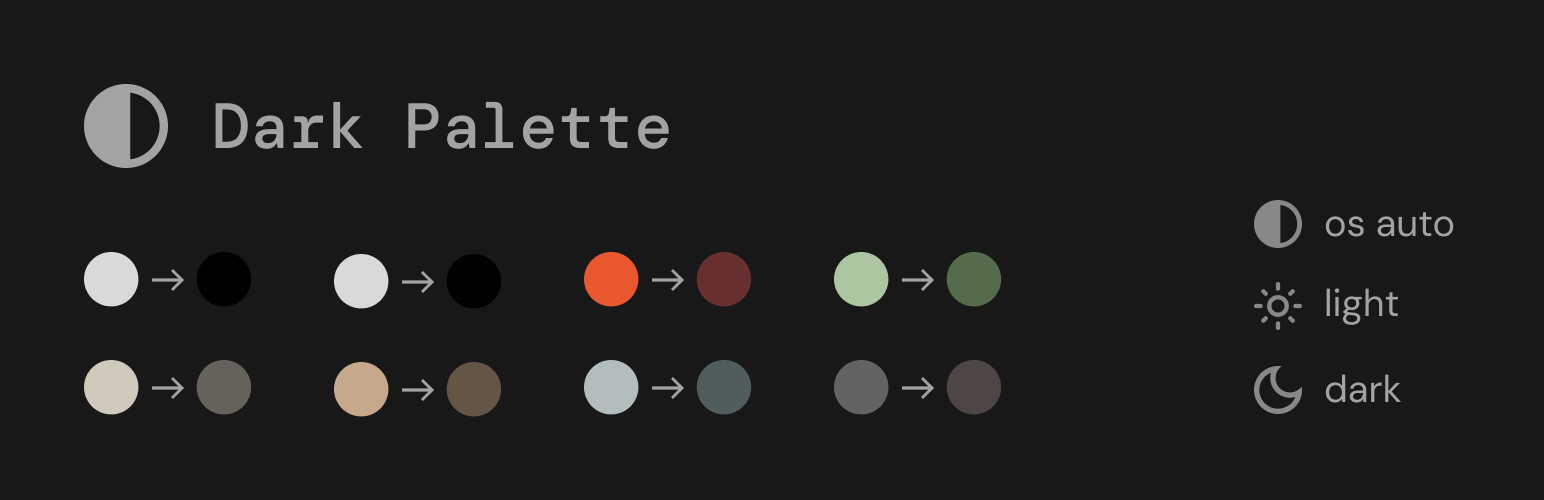
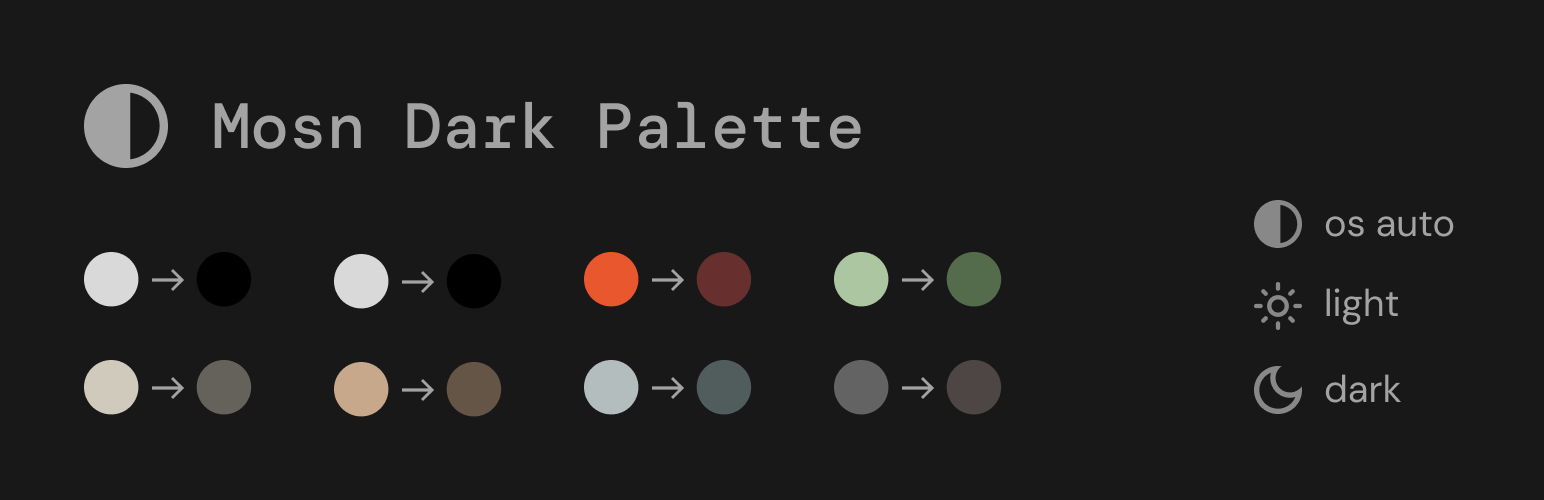
update text

Changed region(s): [[0.1244, 0.21, 0.5596, 0.3]]

diff --git a/src/style.scss b/src/style.scss
@@ -52,20 +52,20 @@
 				display: inline-block;
 				background: currentColor;
 				vertical-align: top;
-				mask: url("../../assets/auto.svg") no-repeat;
+				mask: url("../assets/auto.svg") no-repeat;
 				mask-size: auto 100%;
 				mask-position: center center;
 			}
 
 			&.has-icon--light {
 				&::before {
-					mask: url("../../assets/light.svg") no-repeat;
+					mask: url("../assets/light.svg") no-repeat;
 				}
 			}
 
 			&.has-icon--dark {
 				&::before {
-					mask: url("../../assets/dark.svg") no-repeat;
+					mask: url("../assets/dark.svg") no-repeat;
 				}
 			}
 		}

diff --git a/mosne-dark-palette.php b/mosne-dark-palette.php
@@ -1,7 +1,7 @@
 <?php
 /**
- * Plugin Name:       Dark Palette
- * Description:       Create and apply your dark palette in an a11y friendly way using the new Interactivity API.
+ * Plugin Name:       Mosne Dark Palette
+ * Description:       Create and apply your dark palette in an accessibility-friendly manner using the new Interactivity API.
  * Requires at least: 6.5
  * Requires PHP:      7.4
  * Version:           0.1.0
@@ -34,7 +34,7 @@ add_action( 'wp_body_open', __NAMESPACE__ . '\\mosne_dark_palette_head_script', 
  * @see https://developer.wordpress.org/reference/functions/register_block_type/
  */
 function mosne_dark_palette_block_init(): void {
-	register_block_type( __DIR__ . '/build/mosne-dark-palette/' );
+	register_block_type( __DIR__ . '/build/' );
 }
 
 /**

diff --git a/README.md b/README.md
@@ -2,25 +2,25 @@
 
 ![Dark Palette](https://github.com/mosne/mosne-dark-palette/blob/main/_wordpress-org/banner-1544x500.png)
 
-
-Create and apply your dark palette in an a11y friendly way using the new Interactivity API.
-
 ## Description
 
-Child of the block navigation menu, Mosne Dark Palette is gutenberg block that gives you :
-* A dropdown switcher to choose the color mode you want with custom labels
-* A color picker to remap you color palette
+Create and apply your dark palette in an accessibility-friendly manner using the new Interactivity API.
+
+This plugin provides the following features:
+
+* A Gutenberg block for the navigation menu, serving as a dropdown switcher that enables you to select the desired color mode using custom labels.
+* A color picker for seamlessly remapping your color palette.
 
 ### Key Features
 
 * Dark palette block for the block navigation menu
-* Use all your custom colors and custom labels
-* Accessibility ready
-* No cookies are used (GDPR friendly)
-* Performance optimized, very lightweight
+* Utilize all your custom colors and custom labels
+* Accessibility-ready
+* No cookies used (GDPR-friendly)
+* Performance-optimized and lightweight
 * No block library required
-* Built almost entirely with native WordPress components
-* Developer friendly, easy to customize
+* Primarily built with native WordPress components
+* Developer-friendly and easy to customize
 
 ### Stay Connected
 
@@ -34,24 +34,24 @@ Child of the block navigation menu, Mosne Dark Palette is gutenberg block that g
 	* Go to Plugins &rarr; Add New and search for "Dark Palette". Once found, click "Install".
 	* Download the Dark Palette from wordpress.org and make sure the folder is zipped. Then upload via Plugins &rarr; Add New &rarr; Upload.
 2. Activate the plugin through the 'Plugins' screen in WordPress.
-3. Search for the block within the Block Editor (Gutenberg) and  add the "Dark Palette Switcher" block in a block navigation menu.
+3. Search for the "Dark Palette Switcher" block within the Block Editor (Gutenberg) and add it to a block navigation.
 
 ## Frequently Asked Questions
 
-### How can i customize my css?
+### How can I customize my CSS?
 
-you can change the desired behviour using CSS in your theme or in the customizer.
+You can change the desired behavior using CSS in your theme or in the customizer.
 ``` css
 body[data-theme="dark"]  {
 	/* your CSS here */
 }
 ```
 ### Where can I add custom colors
-You can go in the style editor (Apparence > Editor > Styles) and add color to your custom palette.
+You can go in the style editor (Appearance > Editor > Styles) and add color to your custom palette.
 
 ### Where can I change the icons?
 
-you can change the icons using CSS in your theme or in the customizer.
+You can change the icons using CSS in your theme or in the customizer.
 ``` css
 .wp-block-mosne-dark-palette.has-icon button.has-icon {
 	mask: url("[your svg path]") no-repeat;
